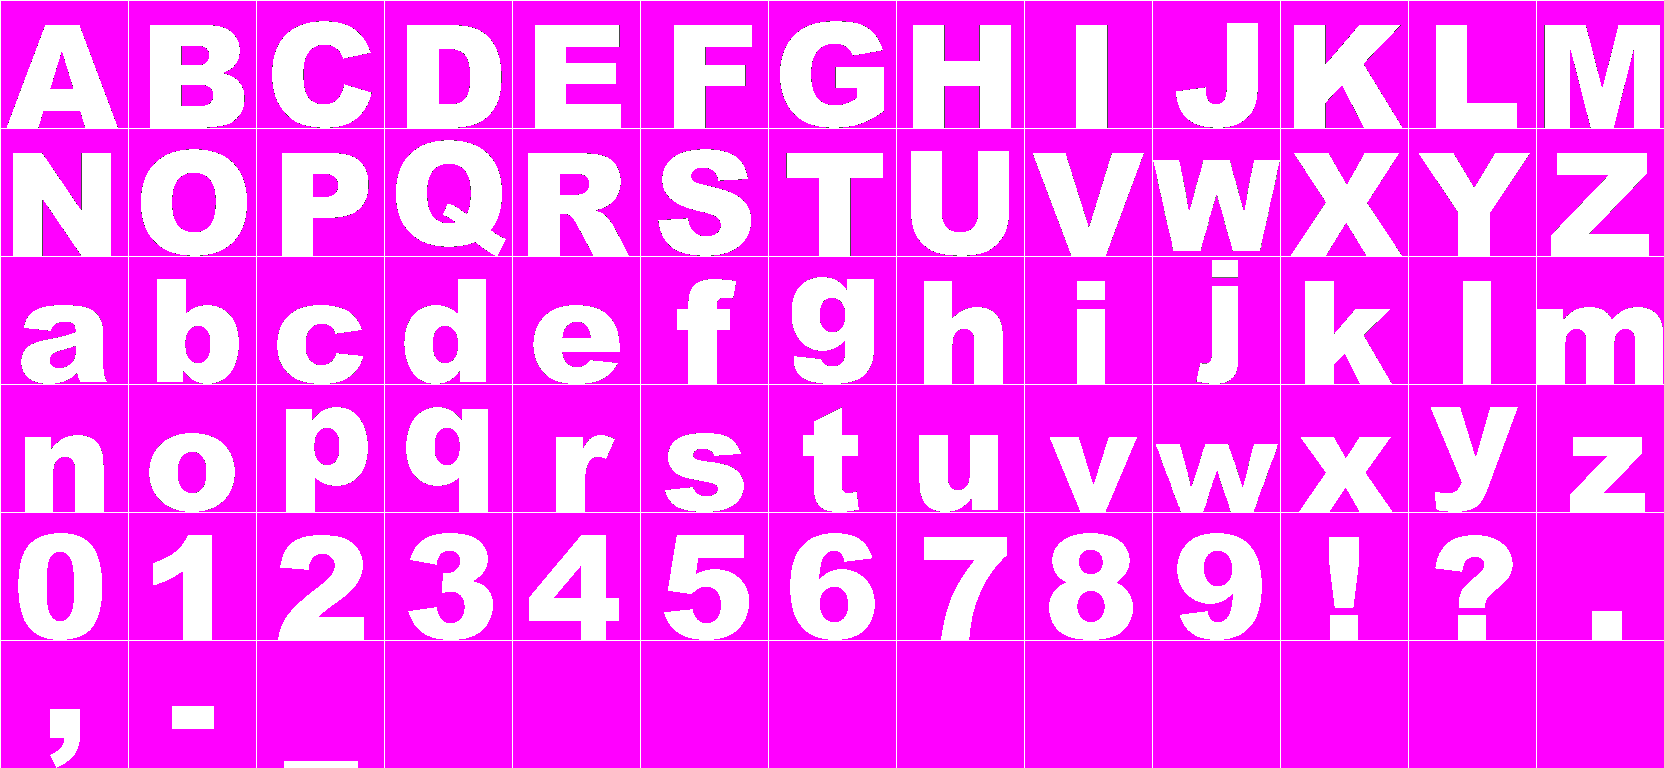
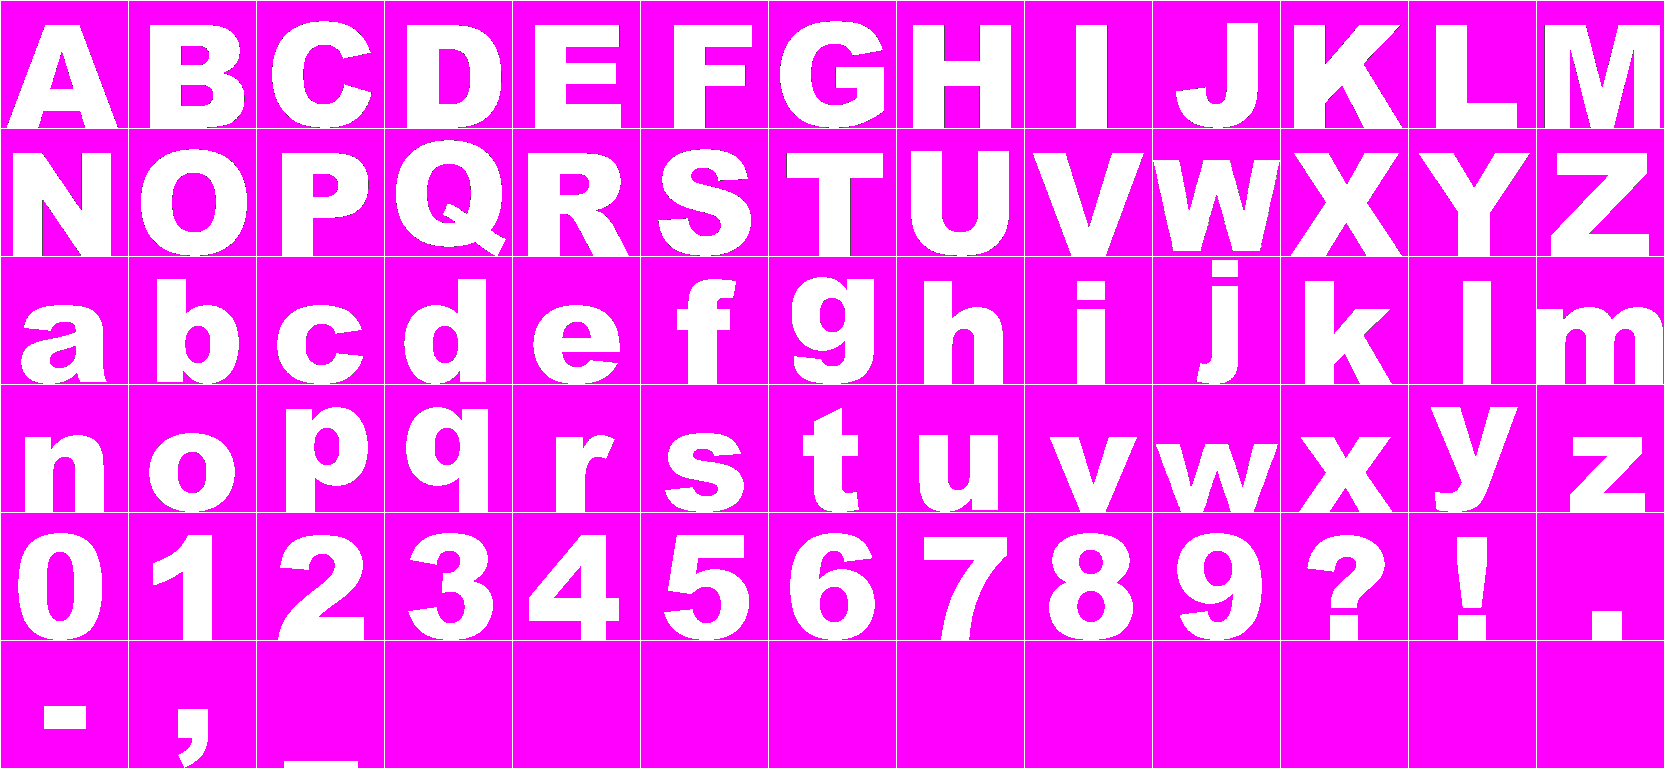
Fixed font bugs. Removed unnecessary files.

Changed region(s): [[0.7812, 0.6875, 0.9062, 0.7812], [0.0938, 0.9062, 0.125, 1.0], [0.0312, 0.9062, 0.0625, 1.0]]

diff --git a/src/net/joaolourenco/ld/graphics/Font.java b/src/net/joaolourenco/ld/graphics/Font.java
@@ -10,7 +10,6 @@ import static org.lwjgl.opengl.GL30.*;
 
 public class Font {
 	
-	private int list = 0;
 	private int[] texIDs;
 	private int size = 128;
 	private Shader shader;
@@ -18,8 +17,8 @@ public class Font {
 			"NOPQRSTUVWXYZ" + //
 			"abcdefghijklm" + //
 			"nopqrstuvwxyz" + //
-			"01234567989!?." + //
-			",-_";
+			"0123456789?!." + //
+			"-,_";
 	
 	protected int vao, vbo, vio, vto;
 	
@@ -99,7 +98,7 @@ public class Font {
 			int currentChar = text.charAt(i);
 			int index = chars.indexOf(currentChar);
 			if (index >= 0 && currentChar != ' ') {
-				if (currentChar == 'p') yOffset += 40;
+				if (currentChar == 'p' || currentChar == 'g' || currentChar == 'j' || currentChar == 'q' || currentChar == 'y' || currentChar == ',') yOffset += 40;
 				glPushMatrix();
 				glLoadIdentity();
 				glScalef(scale, scale, 0);

diff --git a/src/net/joaolourenco/ld/settings/GameSettings.java b/src/net/joaolourenco/ld/settings/GameSettings.java
@@ -6,7 +6,7 @@ public class GameSettings {
 	 * --------------------- // General Game Settings // ---------------------
 	 */
 		// Game version
-		public static String version = "Pre-Release 0.1.6";
+		public static String version = "Pre-Release 0.1.7";
 		
 		// Game Name
 		public static String name = "Fallen";
@@ -18,7 +18,7 @@ public class GameSettings {
 		public static int height = 540;
 		
 		// Debug
-		public static boolean debugging = false;
+		public static boolean debugging = true;
 	
 	/**
 	 * --------------------- // General Tiles Settings // ---------------------

diff --git a/src/net/joaolourenco/ld/level/Level.java b/src/net/joaolourenco/ld/level/Level.java
@@ -75,8 +75,8 @@ public class Level {
 		
 		Light l = new Light(510, GameSettings.height / 2 + 30, 0xffffff);
 		lights.add(l);
-		add(new Player(1344, 1280, l));
-		// add(new Player(120, 120, l));
+		// add(new Player(1344, 1280, l));
+		add(new Player(120, 120, l));
 		
 		lightShader = new Shader("shaders/light.vert", "shaders/light.frag");
 		extraLevels = new float[width * height];

diff --git a/src/net/joaolourenco/ld/menu/Menu.java b/src/net/joaolourenco/ld/menu/Menu.java
@@ -12,7 +12,7 @@ public class Menu {
 	}
 	
 	public void render() {
-		font.drawString("AaBbCc, 123!", 50, 50, 10, -20);
+		font.drawString("Oq, AjGyNp", 50, 50, 10, -20);
 	}
 	
 }
